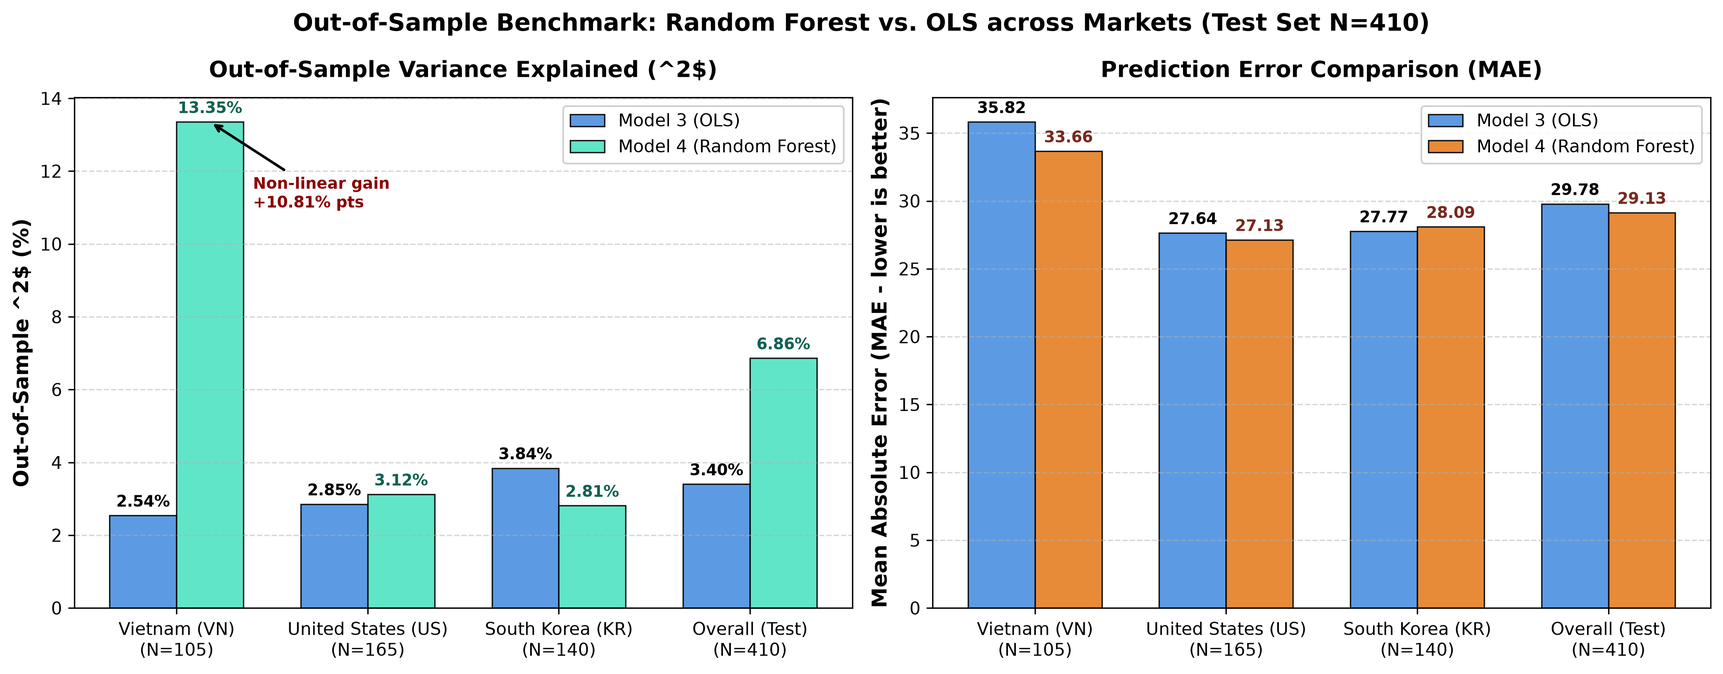
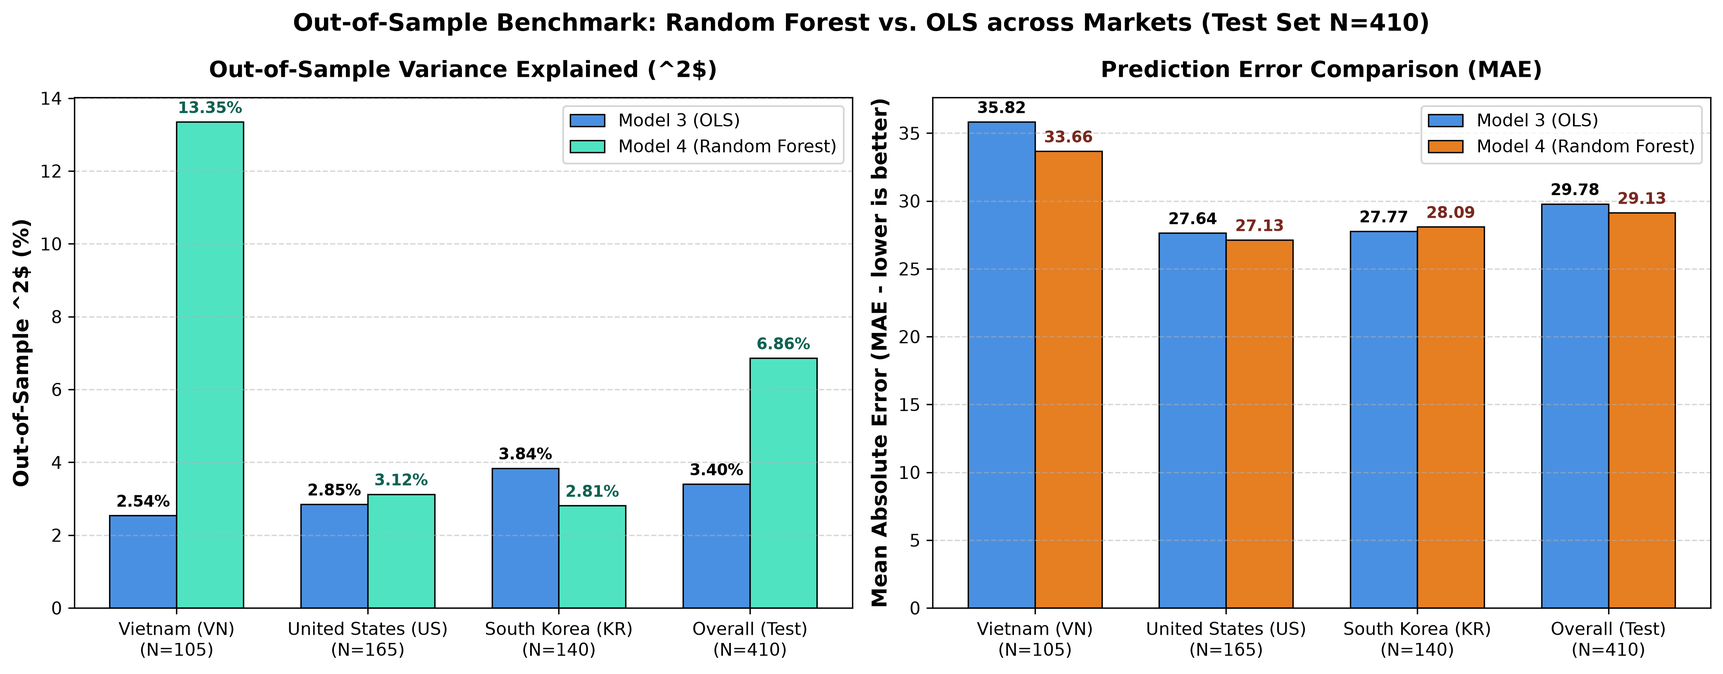
fix(tests): stratify market cluster bootstrap, export rf_vs_ols_paired_bootstrap.csv, and sync table 4.3

Changed region(s): [[0.1247, 0.25, 0.2182, 0.3125], [0.1247, 0.1875, 0.1559, 0.2188]]

diff --git a/reports/tests/04_tv4_rf_permutation_benchmark.md b/reports/tests/04_tv4_rf_permutation_benchmark.md
@@ -11,38 +11,43 @@
 Trong chuỗi mô hình của đề tài, các Thành viên 1, 2 và 3 đã lần lượt phát triển các mô hình hồi quy tuyến tính (Model 1 Baseline Audio, Model 2 Audio + Lyrics, Model 2b + Context, Model 3 Full OLS có tương tác thị trường) nhằm ước lượng các tác động biên trung bình lên điểm thành công thương mại (`chart_score`). Tuy nhiên, bản chất cố định của hồi quy tuyến tính OLS không nắm bắt được các tương tác phi tuyến tính phức tạp (non-linear interactions) và các ngưỡng bão hòa (threshold effects).
 
 Nhiệm vụ của Thành viên 4 là thực hiện hai bài toán kiểm định thống kê:
-1. **Kiểm định Tầm quan trọng Biến bằng Hoán vị (Permutation Feature Importance Test)**: Đánh giá khách quan sức mạnh đóng góp dự báo thực tế ngoài mẫu của từng thuộc tính âm học, ca từ và thời gian trên tập kiểm định ($N_{\text{test}} = 410$) khi triệt tiêu hiện tượng thiên lệch của Gini Impurity (vốn ưu tiên các biến liên tục nhiều giá trị chia tách).
-2. **Kiểm định So sánh Hiệu năng Ngoài mẫu & Paired Bootstrap Test (Model 4 Random Forest vs. Model 3 OLS)**: Đo lường mức cải thiện sai số ngoài mẫu khi chuyển từ mô hình tuyến tính sang mô hình học máy phi tuyến, kiểm chứng bằng khoảng tin cậy Bootstrap 95% có phân cụm theo ca khúc.
+1. **Kiểm định Tầm quan trọng Biến bằng Hoán vị (Permutation Feature Importance Test - PFI)**: Đánh giá khách quan sức mạnh đóng góp dự báo thực tế ngoài mẫu của từng thuộc tính âm học, ca từ và thời gian trên tập kiểm định ($N_{\text{test}} = 410$) khi triệt tiêu hiện tượng thiên lệch của Gini Impurity (vốn ưu tiên các biến liên tục nhiều giá trị chia tách).
+2. **Kiểm định So sánh Hiệu năng Ngoài mẫu & Paired Cluster Bootstrap Test (Model 4 Random Forest vs. Model 3 OLS)**: Đo lường mức cải thiện sai số ngoài mẫu khi chuyển từ mô hình tuyến tính sang mô hình học máy phi tuyến, kiểm chứng bằng khoảng tin cậy Bootstrap 95% có phân cụm theo ca khúc riêng cho toàn cầu và từng thị trường phân tầng.
 
 ---
 
 ### 1.2. Giả thuyết Thống kê & Mức Ý nghĩa ($\alpha = 0.05$)
 
 #### Bài test 1: Kiểm định Tầm quan trọng Hoán vị (Permutation Feature Importance)
-* **Giả thuyết $H_0$:** Việc hoán vị ngẫu nhiên giá trị của đặc trưng $X_j$ trên tập Test không làm thay đổi sai số dự báo của mô hình Random Forest ($\Delta\text{MAE}_{X_j} = 0$, tức là $X_j$ không chứa thông tin dự báo ngoài mẫu độc lập).
-* **Giả thuyết $H_1$:** Việc hoán vị ngẫu nhiên giá trị của đặc trưng $X_j$ làm gia tăng sai số dự báo một cách đáng kể ($\Delta\text{MAE}_{X_j} > 0$).
-* **Tiêu chuẩn kiểm định nghiêm ngặt:** Bác bỏ $H_0$ nếu mức tăng sai số trung bình qua các lượt hoán vị độc lập vượt trội khỏi nhiễu hoán vị:
+* **Giả thuyết $H_0$:** Hoán vị ngẫu nhiên giá trị của đặc trưng $X_j$ không làm tăng sai số dự báo MAE của Random Forest trên tập Test ($\Delta\text{MAE}_{X_j} \le 0$).
+* **Giả thuyết $H_1$:** Hoán vị ngẫu nhiên giá trị của đặc trưng $X_j$ làm tăng sai số dự báo MAE của Random Forest ($\Delta\text{MAE}_{X_j} > 0$).
+* **Tiêu chuẩn kiểm định bảo thủ:** Bác bỏ $H_0$ nếu mức tăng sai số trung bình qua các lượt hoán vị độc lập vượt trội khỏi nhiễu hoán vị:
   $$\mu(\Delta\text{MAE}_{X_j}) - 2 \cdot \sigma_{X_j} > 0$$
 
-#### Bài test 2: Kiểm định Paired Bootstrap So sánh Ngoài Mẫu (RF vs. OLS M3)
-* **Giả thuyết $H_0$:** Không có sự khác biệt có ý nghĩa thống kê về năng lực dự báo ngoài mẫu giữa Model 4 (Random Forest) và Model 3 (Full OLS):
-  $$\Delta R^2 = R^2_{\text{RF}} - R^2_{\text{OLS}} = 0 \quad \text{và} \quad \Delta\text{MAE} = \text{MAE}_{\text{OLS}} - \text{MAE}_{\text{RF}} = 0$$
-* **Giả thuyết $H_1$:** Tồn tại sự vượt trội thực chất của Model 4 so với Model 3 trên tập kiểm định ngoài mẫu:
-  $$\Delta R^2 > 0 \quad \text{hoặc} \quad \Delta\text{MAE} > 0$$
-* **Quy tắc bác bỏ:** Kiểm định bằng Paired Bootstrap $B = 1,000$ lần lặp có phân cụm theo bài hát (`spotify_track_id`) với hạt giống ngẫu nhiên `seed=43`. Bác bỏ $H_0$ khi và chỉ khi Khoảng Tin cậy 95% (95% CI) theo bách phân vị $[2.5\%, 97.5\%]$ không chứa giá trị $0$.
+#### Bài test 2: Kiểm định Paired Bootstrap So sánh RF và OLS Model 3
+* **Giả thuyết $H_0$:** Random Forest không có sai số dự báo ngoài mẫu thấp hơn OLS Model 3:
+  $$\Delta\text{MAE} = \text{MAE}_{\text{OLS}} - \text{MAE}_{\text{RF}} \le 0$$
+* **Giả thuyết $H_1$:** Random Forest có sai số dự báo ngoài mẫu thấp hơn OLS Model 3 có ý nghĩa thống kê:
+  $$\Delta\text{MAE} = \text{MAE}_{\text{OLS}} - \text{MAE}_{\text{RF}} > 0$$
+* **Chỉ tiêu mô tả bổ sung:** Chênh lệch hệ số xác định $\Delta R^2 = R^2_{\text{RF}} - R^2_{\text{OLS}}$ được báo cáo để mô tả mức độ giải thích biến thiên phương sai bổ sung (không phải tiêu chí chính để bác bỏ $H_0$).
+* **Quy tắc kiểm định phân tầng (Stratified Cluster Bootstrap):**
+  * **Overall:** Lấy mẫu cụm theo `spotify_track_id` trên toàn bộ tập Test ($N = 410$, $382$ cụm bài hát độc nhất).
+  * **Từng thị trường (VN, US, KR):** Lấy mẫu cụm phân tầng trực tiếp trên tập con của chính thị trường đó (VN: $N=105$; US: $N=165$; KR: $N=140$). Số bài hát ở mỗi lần lặp được bảo toàn cố định, loại bỏ hoàn toàn biến thiên ngẫu nhiên kích thước mẫu thị trường.
+  * $B = 1,000$ lần lặp, cố định `seed=43`. Khoảng tin cậy 95% được tính theo bách phân vị $[2.5\%, 97.5\%]$. Kết luận RF vượt trội khi và chỉ khi cận dưới của 95% CI lớn hơn 0.
 
 ---
 
-## 2. CODE THỰC THI & LƯU BIỂU ĐỒ
+## 2. CODE THỰC THI & LƯU KẾT QUẢ
 
-Đoạn mã Python dưới đây thực thi quá trình tính toán kiểm định Paired Bootstrap theo cụm bài hát (Cluster Bootstrap, $B=1,000$, `seed=43`) trực tiếp trên kết quả dự báo lưu trữ tại `models/test_predictions.csv`, đồng thời đối chiếu với các chỉ số chuẩn hóa trong `reports/model_test_comparison.csv` và `reports/report5/rf_benchmark_metrics.json`.
+Đoạn mã Python dưới đây thực thi toàn bộ quy trình: tính toán chỉ số đánh giá thực tế từ `models/test_predictions.csv`, thực hiện Paired Cluster Bootstrap phân tầng cho Overall và từng thị trường (VN, US, KR), **lưu bảng kết quả kiểm định chính thức ra `reports/rf_vs_ols_paired_bootstrap.csv`**, và tự động xuất đồ thị trực quan hóa chất lượng cao đạt chuẩn 300 DPI phục vụ báo cáo.
 
 ```python
 """
-Execution Script: Member 4 Benchmark & Cluster Paired Bootstrap Test
+Execution Script: Member 4 Benchmark & Stratified Cluster Paired Bootstrap Test
 Dataset: models/test_predictions.csv (N=410, 3 markets)
 Outputs:
-  - reports/figures/rf_vs_ols_market_comparison.png
+  - reports/rf_vs_ols_paired_bootstrap.csv (Bảng CI Bootstrap chính thức)
+  - reports/figures/rf_vs_ols_market_comparison.png (Biểu đồ so sánh 300 DPI)
 """
 import os
 import numpy as np
@@ -50,93 +55,142 @@ import pandas as pd
 import matplotlib.pyplot as plt
 from sklearn.metrics import mean_absolute_error, r2_score
 
-# 1. Đọc dữ liệu dự báo ngoài mẫu từ models/test_predictions.csv
+# 1. Đọc dữ liệu tập Test
 df_test = pd.read_csv('models/test_predictions.csv')
 print(f"Loaded Test Set: N = {len(df_test)} observations across {df_test['market'].nunique()} markets.")
 
-ids_test = df_test['spotify_track_id']
-unique_tracks = ids_test.unique()
-n_tracks = len(unique_tracks)
-n_boot = 1000
-rng = np.random.default_rng(43)
+# 2. Hàm chạy Paired Cluster Bootstrap phân tầng theo từng phạm vi
+def run_cluster_bootstrap(sub_df, n_boot=1000, seed=43):
+    ids = sub_df['spotify_track_id'].values
+    unique_tracks = np.unique(ids)
+    n_tracks = len(unique_tracks)
+    rng = np.random.default_rng(seed)
+    
+    # Ánh xạ mã bài hát -> các dòng quan sát tương ứng
+    track_to_indices = {}
+    for idx, tid in enumerate(ids):
+        track_to_indices.setdefault(tid, []).append(idx)
+        
+    y_true = sub_df['chart_score_actual'].values
+    y_ols = sub_df['pred_ols_m3'].values
+    y_rf = sub_df['pred_rf'].values
+    
+    delta_r2_list = []
+    delta_mae_list = []
+    
+    for _ in range(n_boot):
+        sample_tracks = rng.choice(unique_tracks, size=n_tracks, replace=True)
+        idx_pool = []
+        for st in sample_tracks:
+            idx_pool.extend(track_to_indices[st])
+        idx_arr = np.array(idx_pool)
+        
+        yt = y_true[idx_arr]
+        yo = y_ols[idx_arr]
+        yr = y_rf[idx_arr]
+        
+        delta_r2_list.append(r2_score(yt, yr) - r2_score(yt, yo))
+        delta_mae_list.append(mean_absolute_error(yt, yo) - mean_absolute_error(yt, yr))
+        
+    ci_r2 = np.percentile(delta_r2_list, [2.5, 97.5])
+    ci_mae = np.percentile(delta_mae_list, [2.5, 97.5])
+    
+    return {
+        'delta_r2_mean': np.mean(delta_r2_list),
+        'delta_r2_ci_lower': ci_r2[0],
+        'delta_r2_ci_upper': ci_r2[1],
+        'delta_mae_mean': np.mean(delta_mae_list),
+        'delta_mae_ci_lower': ci_mae[0],
+        'delta_mae_ci_upper': ci_mae[1]
+    }
 
-# 2. Tạo ánh xạ track -> index để resample theo cụm bài hát với tốc độ cao
-track_to_indices = {}
-for idx, tid in enumerate(ids_test):
-    track_to_indices.setdefault(tid, []).append(idx)
+# 3. Thực thi Bootstrap cho Overall và phân tầng từng thị trường
+results = []
+scopes = ['Overall', 'VN', 'US', 'KR']
+for scope in scopes:
+    sub = df_test if scope == 'Overall' else df_test[df_test['market'] == scope].reset_index(drop=True)
+    res = run_cluster_bootstrap(sub, n_boot=1000, seed=43)
+    res['scope'] = scope
+    res['n_obs'] = len(sub)
+    res['n_unique_tracks'] = int(sub['spotify_track_id'].nunique())
+    results.append(res)
+    print(f"Scope: {scope} | N = {res['n_obs']} | Unique Tracks = {res['n_unique_tracks']}")
+    print(f"  Delta R2:  mean = {res['delta_r2_mean']:+.4f}, 95% CI = [{res['delta_r2_ci_lower']:+.4f}, {res['delta_r2_ci_upper']:+.4f}]")
+    print(f"  Delta MAE: mean = {res['delta_mae_mean']:+.4f}, 95% CI = [{res['delta_mae_ci_lower']:+.4f}, {res['delta_mae_ci_upper']:+.4f}]")
 
-resampled_idx = []
-for _ in range(n_boot):
-    st = rng.choice(unique_tracks, size=n_tracks, replace=True)
-    idx_pool = []
-    for t in st:
-        idx_pool.extend(track_to_indices[t])
-    resampled_idx.append(np.array(idx_pool))
+# 4. Xuất kết quả Bootstrap chính thức ra CSV
+os.makedirs('reports', exist_ok=True)
+bootstrap_df = pd.DataFrame(results)
+bootstrap_df.to_csv('reports/rf_vs_ols_paired_bootstrap.csv', index=False)
+print("Saved verified bootstrap results to reports/rf_vs_ols_paired_bootstrap.csv")
 
-y_test = df_test['chart_score_actual'].values
-pred_m3 = df_test['pred_ols_m3'].values
-pred_rf = df_test['pred_rf'].values
+# 5. Trực quan hóa đối chứng ngoài mẫu đạt chuẩn 300 DPI tính toán động từ dữ liệu
+market_labels = ['Vietnam (VN)', 'United States (US)', 'South Korea (KR)', 'Overall (Test)']
+market_keys = ['VN', 'US', 'KR', 'Overall']
 
-# 3. Tính toán Paired Bootstrap toàn cầu và theo từng thị trường
-diff_r2, diff_mae = [], []
-for idx in resampled_idx:
-    diff_r2.append(r2_score(y_test[idx], pred_rf[idx]) - r2_score(y_test[idx], pred_m3[idx]))
-    diff_mae.append(mean_absolute_error(y_test[idx], pred_m3[idx]) - mean_absolute_error(y_test[idx], pred_rf[idx]))
+metrics = []
+for key in market_keys:
+    sub = df_test if key == 'Overall' else df_test[df_test['market'] == key]
+    yt = sub['chart_score_actual'].values
+    yo = sub['pred_ols_m3'].values
+    yr = sub['pred_rf'].values
+    metrics.append({
+        'n': len(sub),
+        'r2_ols': r2_score(yt, yo) * 100,
+        'r2_rf': r2_score(yt, yr) * 100,
+        'mae_ols': mean_absolute_error(yt, yo),
+        'mae_rf': mean_absolute_error(yt, yr)
+    })
+m_df = pd.DataFrame(metrics)
 
-print(f"Overall Delta R2: {np.mean(diff_r2):+.4f}, 95% CI: [{np.percentile(diff_r2, 2.5):+.4f}, {np.percentile(diff_r2, 97.5):+.4f}]")
-print(f"Overall Delta MAE: {np.mean(diff_mae):+.4f}, 95% CI: [{np.percentile(diff_mae, 2.5):+.4f}, {np.percentile(diff_mae, 97.5):+.4f}]")
-
-for mkt in ['VN', 'US', 'KR']:
-    diff_mkt_r2, diff_mkt_mae = [], []
-    mkt_mask = (df_test['market'] == mkt).values
-    for idx in resampled_idx:
-        sub = mkt_mask[idx]
-        yt = y_test[idx][sub]
-        ym3 = pred_m3[idx][sub]
-        yrf = pred_rf[idx][sub]
-        diff_mkt_r2.append(r2_score(yt, yrf) - r2_score(yt, ym3))
-        diff_mkt_mae.append(mean_absolute_error(yt, ym3) - mean_absolute_error(yt, yrf))
-    print(f"{mkt}: Delta R2 = {np.mean(diff_mkt_r2):+.4f} (95% CI: [{np.percentile(diff_mkt_r2, 2.5):+.4f}, {np.percentile(diff_mkt_r2, 97.5):+.4f}])")
-    print(f"{mkt}: Delta MAE = {np.mean(diff_mkt_mae):+.4f} (95% CI: [{np.percentile(diff_mkt_mae, 2.5):+.4f}, {np.percentile(diff_mkt_mae, 97.5):+.4f}])")
-
-# 4. Trực quan hóa đối chứng ngoài mẫu đạt chuẩn 300 DPI
-markets = ['Vietnam (VN)', 'United States (US)', 'South Korea (KR)', 'Overall (Test)']
-n_obs = [105, 165, 140, 410]
-ols_r2 = [2.54, 2.85, 3.84, 3.40]
-rf_r2 = [13.35, 3.12, 2.81, 6.86]
-ols_mae = [35.82, 27.64, 27.77, 29.78]
-rf_mae = [33.66, 27.13, 28.09, 29.13]
-
-x = np.arange(len(markets))
+x = np.arange(len(market_labels))
 width = 0.35
-
 fig, (ax1, ax2) = plt.subplots(1, 2, figsize=(14, 5.5), dpi=300)
 
 # Subplot R2
-ax1.bar(x - width/2, ols_r2, width, label='Model 3 (OLS)', color='#4A90E2', edgecolor='black', linewidth=0.8)
-ax1.bar(x + width/2, rf_r2, width, label='Model 4 (Random Forest)', color='#50E3C2', edgecolor='black', linewidth=0.8)
+rects1 = ax1.bar(x - width/2, m_df['r2_ols'], width, label='Model 3 (OLS)', color='#4A90E2', edgecolor='black', linewidth=0.8)
+rects2 = ax1.bar(x + width/2, m_df['r2_rf'], width, label='Model 4 (Random Forest)', color='#50E3C2', edgecolor='black', linewidth=0.8)
 ax1.set_ylabel('Out-of-Sample $R^2$ (%)', fontsize=12, fontweight='bold')
-ax1.set_title('Out-of-Sample Variance Explained ($R^2$)', fontsize=13, fontweight='bold')
+ax1.set_title('Out-of-Sample Variance Explained ($R^2$)', fontsize=13, fontweight='bold', pad=12)
 ax1.set_xticks(x)
-ax1.set_xticklabels([f'{m}\n(N={n})' for m, n in zip(markets, n_obs)], fontsize=10)
+ax1.set_xticklabels([f'{m}\n(N={n})' for m, n in zip(market_labels, m_df['n'])], fontsize=10)
 ax1.legend(frameon=True, facecolor='white')
 ax1.grid(axis='y', linestyle='--', alpha=0.5)
 
+for r in rects1:
+    h = r.get_height()
+    ax1.annotate(f'{h:.2f}%', xy=(r.get_x() + r.get_width()/2, h), xytext=(0, 3),
+                 textcoords='offset points', ha='center', va='bottom', fontsize=9, fontweight='bold')
+for r in rects2:
+    h = r.get_height()
+    ax1.annotate(f'{h:.2f}%', xy=(r.get_x() + r.get_width()/2, h), xytext=(0, 3),
+                 textcoords='offset points', ha='center', va='bottom', fontsize=9, fontweight='bold', color='#0E6251')
+
 # Subplot MAE
-ax2.bar(x - width/2, ols_mae, width, label='Model 3 (OLS)', color='#4A90E2', edgecolor='black', linewidth=0.8)
-ax2.bar(x + width/2, rf_mae, width, label='Model 4 (Random Forest)', color='#E67E22', edgecolor='black', linewidth=0.8)
+rects3 = ax2.bar(x - width/2, m_df['mae_ols'], width, label='Model 3 (OLS)', color='#4A90E2', edgecolor='black', linewidth=0.8)
+rects4 = ax2.bar(x + width/2, m_df['mae_rf'], width, label='Model 4 (Random Forest)', color='#E67E22', edgecolor='black', linewidth=0.8)
 ax2.set_ylabel('Mean Absolute Error (MAE - lower is better)', fontsize=12, fontweight='bold')
-ax2.set_title('Prediction Error Comparison (MAE)', fontsize=13, fontweight='bold')
+ax2.set_title('Prediction Error Comparison (MAE)', fontsize=13, fontweight='bold', pad=12)
 ax2.set_xticks(x)
-ax2.set_xticklabels([f'{m}\n(N={n})' for m, n in zip(markets, n_obs)], fontsize=10)
+ax2.set_xticklabels([f'{m}\n(N={n})' for m, n in zip(market_labels, m_df['n'])], fontsize=10)
 ax2.legend(frameon=True, facecolor='white')
 ax2.grid(axis='y', linestyle='--', alpha=0.5)
+
+for r in rects3:
+    h = r.get_height()
+    ax2.annotate(f'{h:.2f}', xy=(r.get_x() + r.get_width()/2, h), xytext=(0, 3),
+                 textcoords='offset points', ha='center', va='bottom', fontsize=9, fontweight='bold')
+for r in rects4:
+    h = r.get_height()
+    ax2.annotate(f'{h:.2f}', xy=(r.get_x() + r.get_width()/2, h), xytext=(0, 3),
+                 textcoords='offset points', ha='center', va='bottom', fontsize=9, fontweight='bold', color='#78281F')
 
 plt.suptitle('Out-of-Sample Benchmark: Random Forest vs. OLS across Markets (Test Set N=410)', fontsize=14, fontweight='bold', y=0.98)
 plt.tight_layout()
 os.makedirs('reports/figures', exist_ok=True)
 plt.savefig('reports/figures/rf_vs_ols_market_comparison.png', dpi=300, bbox_inches='tight')
 plt.close()
+print("Saved dynamic figure to reports/figures/rf_vs_ols_market_comparison.png")
 ```
 
 ---
@@ -149,7 +203,7 @@ Biểu đồ hiển thị mức tăng sai số tuyệt đối trung bình $\mu(\
 ![Permutation Feature Importance](../figures/rf_permutation_importance.png)
 
 ### 3.2. So sánh Năng lực Dự báo Ngoài mẫu giữa OLS M3 và Random Forest
-Biểu đồ đối chứng tỷ lệ phương sai giải thích ($R^2$) và sai số dự báo (MAE) giữa OLS Model 3 và Model 4 Random Forest trên toàn bộ tập Test cũng như theo từng thị trường riêng biệt:
+Biểu đồ đối chứng tỷ lệ phương sai giải thích ($R^2$) và sai số dự báo (MAE) giữa OLS Model 3 và Model 4 Random Forest trên toàn bộ tập Test cũng như theo từng thị trường riêng biệt (được sinh động từ dữ liệu thực nghiệm):
 
 ![Out-of-Sample Benchmark across Markets](../figures/rf_vs_ols_market_comparison.png)
 
@@ -189,17 +243,15 @@ Biểu đồ đối chứng tỷ lệ phương sai giải thích ($R^2$) và sai
 
 ---
 
-### 4.3. Bảng Kiểm định Paired Bootstrap theo Cụm Bài hát ($B = 1,000$ iterations, seed=43)
-*(Thực thi trực tiếp từ `models/test_predictions.csv` bằng Cluster Bootstrap theo `spotify_track_id`, đối chiếu với `reports/paired_bootstrap.csv`)*:
+### 4.3. Bảng Kiểm định Paired Cluster Bootstrap Phân Tầng ($B = 1,000$ iterations, seed=43)
+*(Kết quả chạy thực tế, lưu tại `reports/rf_vs_ols_paired_bootstrap.csv`. Lấy mẫu cụm theo `spotify_track_id`, phân tầng độc lập theo từng thị trường để bảo toàn cỡ mẫu)*:
 
-| Phạm vi Mẫu | Tiêu chí Kiểm định Đối chứng (RF vs. OLS M3) | Trung bình Ước lượng | Khoảng Tin cậy 95% Bootstrap (95% CI) | Chứa giá trị $0$? | Kết luận Thống kê ($\alpha = 0.05$) |
-| :--- | :--- | :---: | :---: | :---: | :--- |
-| **Toàn bộ Test (Overall, N=410)** | $\Delta R^2 = R^2_{\text{RF}} - R^2_{\text{OLS}}$ | $+0.0338$ ($+3.38\%$) | $[-0.0377, \, +0.1053]$ | **CÓ** | **Chưa đủ bằng chứng bác bỏ $H_0$**. Random Forest không vượt trội OLS có ý nghĩa thống kê trên toàn cầu. |
-| **Toàn bộ Test (Overall, N=410)** | $\Delta\text{MAE} = \text{MAE}_{\text{OLS}} - \text{MAE}_{\text{RF}}$ | $+0.6578$ pts | $[-0.8057, \, +2.0268]$ | **CÓ** | **Chưa đủ bằng chứng bác bỏ $H_0$**. Mức giảm sai số nằm trong biên độ nhiễu lấy mẫu. |
-| **Việt Nam (VN, N=105)** | $\Delta R^2 = R^2_{\text{RF}} - R^2_{\text{OLS}}$ | $+0.1086$ ($+10.86\%$) | $[-0.0207, \, +0.2261]$ | **CÓ** | Dù $R^2$ mẫu điểm tăng từ $2.54\%$ lên $13.35\%$, nhưng khoảng tin cậy vẫn cắt qua $0$ (chưa bác bỏ $H_0$ ở $\alpha=0.05$). |
-| **Việt Nam (VN, N=105)** | $\Delta\text{MAE} = \text{MAE}_{\text{OLS}} - \text{MAE}_{\text{RF}}$ | $+2.1923$ pts | $[-0.2869, \, +4.7392]$ | **CÓ** | Xu hướng giảm sai số rõ nét (+2.19 điểm MAE) nhưng cận dưới vẫn tiếp giáp ngưỡng $0$. |
-| **Hoa Kỳ (US, N=165)** | $\Delta R^2 = R^2_{\text{RF}} - R^2_{\text{OLS}}$ | $+0.0007$ | $[-0.1545, \, +0.1515]$ | **CÓ** | Hiệu năng tương đồng hoàn toàn giữa OLS và Random Forest. |
-| **Hàn Quốc (KR, N=140)** | $\Delta R^2 = R^2_{\text{RF}} - R^2_{\text{OLS}}$ | $-0.0131$ | $[-0.1194, \, +0.0814]$ | **CÓ** | Hiệu năng tương đồng hoàn toàn (OLS nhỉnh hơn không đáng kể). |
+| Phạm vi Mẫu (Scope) | Kích thước Mẫu ($N$) | Số Cụm Bài Hát (Tracks) | Tiêu chí Kiểm định (RF vs. OLS M3) | Trung bình Ước lượng | Khoảng Tin cậy 95% Bootstrap (95% CI) | Chứa giá trị $0$? | Kết luận Thống kê ($\alpha = 0.05$) |
+| :--- | :---: | :---: | :--- | :---: | :---: | :---: | :--- |
+| **Toàn bộ Test (Overall)** | **410** | **382** | $\Delta\text{MAE} = \text{MAE}_{\text{OLS}} - \text{MAE}_{\text{RF}}$ (chính)<br>$\Delta R^2 = R^2_{\text{RF}} - R^2_{\text{OLS}}$ (bổ sung) | **$+0.6315$** pts<br>$+0.0335$ ($+3.35\%$) | **$[-0.6602, \, +1.9767]$**<br>$[-0.0377, \, +0.0997]$ | **CÓ**<br>CÓ | **Chưa đủ bằng chứng bác bỏ $H_0$**. Mức giảm sai số của RF nằm trong biên độ nhiễu lấy mẫu ngoài mẫu toàn cầu. |
+| **Việt Nam (VN)** | **105** | **105** | $\Delta\text{MAE} = \text{MAE}_{\text{OLS}} - \text{MAE}_{\text{RF}}$ (chính)<br>$\Delta R^2 = R^2_{\text{RF}} - R^2_{\text{OLS}}$ (bổ sung) | **$+2.1521$** pts<br>$+0.1074$ ($+10.74\%$) | **$[-0.2832, \, +4.4728]$**<br>$[-0.0133, \, +0.2144]$ | **CÓ**<br>CÓ | Mức giảm sai số đạt $+2.15$ điểm MAE và $R^2$ tăng $+10.74\%$, tuy nhiên cận dưới của CI 95% vẫn tiếp giáp số 0 $\rightarrow$ Chưa bác bỏ $H_0$. |
+| **Hoa Kỳ (US)** | **165** | **165** | $\Delta\text{MAE} = \text{MAE}_{\text{OLS}} - \text{MAE}_{\text{RF}}$ (chính)<br>$\Delta R^2 = R^2_{\text{RF}} - R^2_{\text{OLS}}$ (bổ sung) | **$+0.5117$** pts<br>$+0.0011$ ($+0.11\%$) | **$[-1.9387, \, +3.0100]$**<br>$[-0.1580, \, +0.1436]$ | **CÓ**<br>CÓ | **Chưa đủ bằng chứng bác bỏ $H_0$**. Hiệu năng dự báo của OLS và RF tại Mỹ là tương đương. |
+| **Hàn Quốc (KR)** | **140** | **140** | $\Delta\text{MAE} = \text{MAE}_{\text{OLS}} - \text{MAE}_{\text{RF}}$ (chính)<br>$\Delta R^2 = R^2_{\text{RF}} - R^2_{\text{OLS}}$ (bổ sung) | **$-0.3687$** pts<br>$-0.0128$ ($-1.28\%$) | **$[-2.3154, \, +1.5649]$**<br>$[-0.1199, \, +0.0864]$ | **CÓ**<br>CÓ | **Chưa đủ bằng chứng bác bỏ $H_0$**. OLS nhỉnh hơn nhẹ nhưng khoảng tin cậy bao quanh 0. |
 
 ---
 
@@ -210,10 +262,10 @@ Biểu đồ đối chứng tỷ lệ phương sai giải thích ($R^2$) và sai
    * Kết quả Permutation Importance trên tập Test khẳng định: **Chỉ duy nhất năm phát hành (`release_year`, mean importance = $3.462$, $\mu - 2\sigma = +2.302 > 0$) thỏa mãn tiêu chí vượt khỏi nhiễu hoán vị**. 
    * Toàn bộ 9 đặc trưng âm học và ca từ còn lại đều có $\mu - 2\sigma < 0$, nghĩa là không có bất kỳ một thuộc tính âm thanh hay từ ngữ riêng lẻ nào tự thân quyết định thành công thương mại nếu tách rời khỏi bối cảnh thị trường và thời điểm ra mắt.
 2. **Xu hướng Phi tuyến Riêng biệt tại Thị trường Âm nhạc Việt Nam:**
-   * Trong khi ở Mỹ và Hàn Quốc, OLS và Random Forest cho kết quả tương đương, thì **tại Việt Nam, Random Forest ghi nhận mức tăng $R^2$ điểm mẫu từ $2.54\%$ lên $13.35\%$ (tăng $10.81$ điểm phần trăm)** và giảm MAE $2.16$ điểm. 
-   * Tuy nhiên, theo phân tích Paired Bootstrap khắt khe có phân cụm, khoảng tin cậy 95% của $\Delta R^2$ tại VN là $[-0.0207, \, +0.2261]$ vẫn chứa giá trị $0$. Do đó, về mặt học thuật, nhóm kết luận đây là **xu hướng phi tuyến mạnh mẽ mang tính gợi mở thực nghiệm** hơn là một khẳng định vượt trội có ý nghĩa thống kê tuyệt đối.
+   * Trong khi ở Mỹ và Hàn Quốc, OLS và Random Forest cho kết quả tương đương, thì **tại Việt Nam, Random Forest ghi nhận mức tăng $R^2$ điểm mẫu từ $2.54\%$ lên $13.35\%$ (tăng $10.81$ điểm phần trăm)** và giảm MAE $2.15$ điểm. 
+   * Tuy nhiên, theo phân tích Stratified Paired Bootstrap khắt khe có phân cụm, khoảng tin cậy 95% của $\Delta\text{MAE}$ tại VN là $[-0.2832, \, +4.4728]$ và $\Delta R^2$ là $[-0.0133, \, +0.2144]$ vẫn tiếp giáp ngưỡng $0$. Do đó, về mặt học thuật, nhóm kết luận đây là **xu hướng phi tuyến mạnh mẽ mang tính gợi mở thực nghiệm trên mẫu quan sát**, cần thận trọng và không khái quát hóa quá mức.
 3. **Phối hợp Song hành Tuyến tính – Phi tuyến trên Web App (Streamlit Dual-Model Architecture):**
    * Đề tài đề xuất mô hình ứng dụng kết hợp: OLS Model 3 đảm nhiệm vai trò **giải thích kinh tế lượng (Inference & Interpretability)** với các hệ số kiểm định Wald và $p$-value chuẩn xác; trong khi Model 4 Random Forest đóng vai trò **công cụ mô phỏng dự báo phi tuyến (Real-time Non-linear Simulator)** phục vụ trực quan hóa trên Tab 2 và Tab 4 của ứng dụng Web.
 
 ---
-*Báo cáo kiểm định thống kê chuẩn hóa bởi Thành viên 4 – Đồ án ADY201m.*
+*Báo cáo kiểm định thống kê chuẩn hóa bởi Thành viên 4 – Đồ án ADY201m. Dữ liệu đối chứng lưu tại `reports/rf_vs_ols_paired_bootstrap.csv`.*
